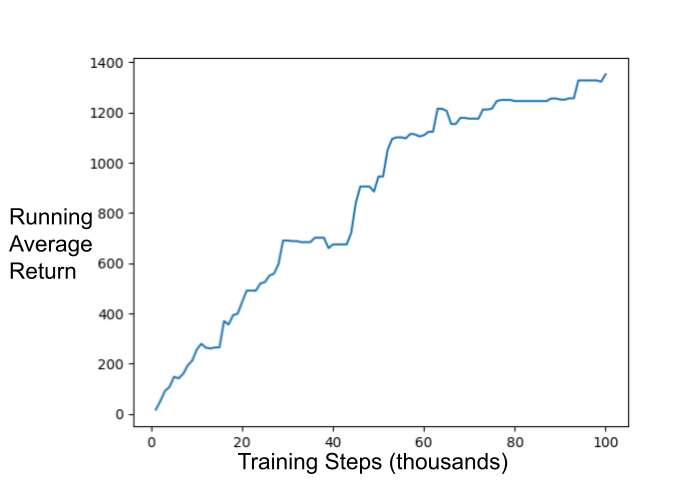
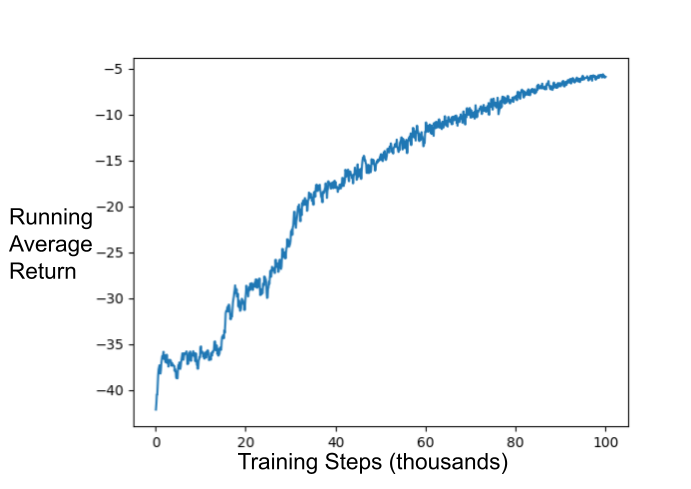
Display results on deterministic ProcMaze instead of previous stochastic environment. Also added target network, and fixed bug where opt_t was not updated.

diff --git a/jax_environments.py b/jax_environments.py
@@ -1,6 +1,6 @@
 import jax as jx
 import jax.numpy as jnp
-from jax import jit
+from jax import jit, vmap
 from functools import partial
 # import operator
 
@@ -90,6 +90,153 @@ class Asterix:
             is_entity = jnp.logical_or(is_enemy[i], is_gold[i])
             obs = obs.at[entity_x[i],i,self.channels['right']].set(jnp.where(is_entity,movement_dir[i],False))
             obs = obs.at[entity_x[i],i,self.channels['left']].set(jnp.where(is_entity,jnp.logical_not(movement_dir[i]),False))
+        return obs
+
+    def num_actions(self):
+        return self._num_actions
+
+class ProcMaze:
+    def __init__(self, grid_size=10, goal_reward=False, timeout=None):
+        self.move_map = jnp.asarray([[0, 0], [-1,0], [0,-1], [1,0], [0,1]])
+        self.timeout = timeout
+
+        self._num_actions = 5
+        self.grid_size = grid_size
+        self.channels ={
+            'player':0,
+            'goal':1,
+            'wall':2,
+            'empty':3
+        }
+
+    @partial(jit, static_argnums=(0,))
+    def step(self, action, env_state):
+        goal, wall_grid, pos, t = env_state
+
+        # Move if the new position is on the grid and open
+        new_pos = jnp.clip(pos+self.move_map[action], 0, self.grid_size-1)
+        pos = jnp.where(jnp.logical_not(wall_grid[new_pos[0], new_pos[1]]), new_pos, pos)
+
+        # Treminated if we reach the goal
+        terminal = jnp.array_equal(pos, goal)
+        if(self.timeout is not None):
+            terminal = jnp.logical_or(terminal, t>=self.timeout)
+
+        reward = -1
+
+        t+=1
+
+        env_state = goal, wall_grid, pos, t
+
+        return env_state, self.get_observation(env_state), reward, terminal, {}
+
+    @partial(jit, static_argnums=(0,))
+    def reset(self, key):
+        def push(stack, top, x):
+            stack= stack.at[top].set(x)
+            top+=1
+            return stack, top
+
+        def pop(stack, top):
+            top-=1
+            return stack[top], top
+
+        #takes and flattened index, returns neighbours as (x,y) pair
+        def neighbours(cell):
+            coord_tuple = jnp.unravel_index(cell, (self.grid_size, self.grid_size))
+            coord_array = jnp.stack(list(coord_tuple))
+            return coord_array+self.move_map
+
+        #takes (x,y) pair
+        def can_expand(cell, visited):
+            # A neighbour can be expanded as long as it is on the grid, it has not been visited, and it's only visited neighbour is the current cell
+            flat_cell = jnp.ravel_multi_index((cell[0],cell[1]),(self.grid_size,self.grid_size),mode='clip')
+            not_visited = jnp.logical_not(visited[flat_cell])
+            ns = neighbours(flat_cell)
+            ns_on_grid = jnp.all(jnp.logical_and(ns>=0,ns<=self.grid_size-1), axis=1)
+            flat_ns = jnp.ravel_multi_index((ns[:,0],ns[:,1]),(self.grid_size,self.grid_size),mode='clip')
+            # Only count neighbours which are actually on the grid
+            only_one_visited_neighbor = jnp.equal(jnp.sum(jnp.logical_and(visited[flat_ns],ns_on_grid)),1)
+            on_grid = jnp.all(jnp.logical_and(cell>=0,cell<=self.grid_size-1))
+            return jnp.logical_and(jnp.logical_and(not_visited,only_one_visited_neighbor),on_grid)
+        can_expand = vmap(can_expand, in_axes=(0,None))
+
+        wall_grid = jnp.ones((self.grid_size, self.grid_size), dtype=bool)
+
+        #Visited node map
+        visited = jnp.zeros(self.grid_size*self.grid_size, dtype=bool)
+
+        #big enough to hold every location in the grid, indices should be flattened to store here
+        stack = jnp.zeros(self.grid_size*self.grid_size, dtype=int)
+        top = 0
+
+        #Location of current cell being searched
+        key, subkey = jx.random.split(key)
+        curr = jx.random.choice(subkey, self.grid_size, (2,))
+        flat_curr = jnp.ravel_multi_index((curr[0],curr[1]),(self.grid_size,self.grid_size),mode='clip')
+        wall_grid = wall_grid.at[curr[0], curr[1]].set(False)
+
+        visited = visited.at[flat_curr].set(True)
+        stack, top = push(stack,top, flat_curr)
+
+        def cond_fun(carry):
+            visited, stack, top, wall_grid, key = carry
+            #continue until stack is empty
+            return top!=0
+
+        def body_fun(carry):
+            visited, stack, top, wall_grid, key = carry
+            curr, top = pop(stack,top)
+            ns = neighbours(curr)
+            flat_ns = jnp.ravel_multi_index((ns[:,0],ns[:,1]),(self.grid_size,self.grid_size),mode='clip')
+
+            expandable = can_expand(ns,visited)
+
+            has_expandable_neighbour = jnp.any(expandable)
+
+            # This will all be used only conditioned on has_expandable neighbor
+            _stack, _top = push(stack, top, curr)
+            key, subkey = jx.random.split(key)
+            selected = jx.random.choice(subkey, flat_ns,p=expandable/jnp.sum(expandable))
+            _stack, _top = push(_stack, _top, selected)
+            _wall_grid = wall_grid.at[jnp.unravel_index(selected, (self.grid_size, self.grid_size))].set(False)
+            _visited = visited.at[selected].set(True)
+
+            stack = jnp.where(has_expandable_neighbour, _stack, stack)
+            top = jnp.where(has_expandable_neighbour, _top, top)
+            wall_grid = jnp.where(has_expandable_neighbour, _wall_grid, wall_grid)
+            visited = jnp.where(has_expandable_neighbour, _visited, visited)
+            return (visited, stack, top, wall_grid, key)
+
+
+
+        key, subkey = jx.random.split(key)
+        carry = (visited, stack, top, wall_grid, subkey)
+        visited, stack, top, wall_grid, key = jx.lax.while_loop(cond_fun, body_fun, carry)
+
+        flat_open = jnp.logical_not(jnp.ravel(wall_grid))
+
+        key, subkey = jx.random.split(key)
+        pos = jx.random.choice(subkey, self.grid_size*self.grid_size, p=flat_open/jnp.sum(flat_open))
+        pos = jnp.stack(list(jnp.unravel_index(pos, (self.grid_size, self.grid_size))))
+        key, subkey = jx.random.split(key)
+        goal = jx.random.choice(subkey, self.grid_size*self.grid_size, p=flat_open/jnp.sum(flat_open))
+        goal = jnp.stack(list(jnp.unravel_index(goal, (self.grid_size, self.grid_size))))
+
+        wall_grid = wall_grid.at[goal[0], goal[1]].set(False)
+        wall_grid = wall_grid.at[pos[0], pos[1]].set(False)
+        t=0
+        env_state = goal, wall_grid, pos, t
+        return env_state
+
+    @partial(jit, static_argnums=(0,))
+    def get_observation(self, env_state):
+        goal, wall_grid, pos, t = env_state
+        obs = jnp.zeros((self.grid_size, self.grid_size, len(self.channels)), dtype=bool)
+        obs = obs.at[pos[0],pos[1],self.channels['player']].set(True)
+        obs = obs.at[goal[0],goal[1],self.channels['goal']].set(True)
+        obs = obs.at[:,:,self.channels['wall']].set(wall_grid)
+        obs = obs.at[:,:,self.channels['empty']].set(jnp.logical_not(wall_grid))
         return obs
 
     def num_actions(self):

diff --git a/basic_tree_search.py b/basic_tree_search.py
@@ -30,12 +30,6 @@ class dotdict(dict):
     __setattr__ = dict.__setitem__
     __delattr__ = dict.__delitem__
 
-key = jx.random.PRNGKey(0)
-
-Environment = getattr(jax_environments, "Asterix")
-
-env = Environment()
-
 activation_dict = {"relu": jx.nn.relu, "silu": jx.nn.silu, "elu": jx.nn.elu}
 
 parser = argparse.ArgumentParser()
@@ -122,6 +116,8 @@ def get_init_fn(env):
         V_params = V_net.init(subkey, dummy_obs)
         V_func = V_net.apply
 
+        V_target_params = V_params
+
         pi_net = hk.without_apply_rng(hk.transform(lambda obs: pi_function(config, num_actions)(obs.astype(float))))
         key, subkey = jx.random.split(key)
         pi_params = pi_net.init(subkey, dummy_obs)
@@ -133,7 +129,7 @@ def get_init_fn(env):
         pi_opt_init, pi_opt_update, get_pi_params = adamw(config.pi_alpha, eps=config.eps_adam, b1=config.b1_adam, b2=config.b2_adam, wd=config.wd_adam)
         pi_opt_state = pi_opt_init(pi_params)
 
-        return env_states, V_func, pi_func, V_opt_state, pi_opt_state, V_opt_update, pi_opt_update, get_V_params, get_pi_params
+        return env_states, V_func, pi_func, V_opt_state, pi_opt_state, V_opt_update, pi_opt_update, get_V_params, V_target_params, get_pi_params
     return init_fn
 
 def get_AC_loss(pi_func, V_func):
@@ -160,7 +156,7 @@ def get_agent_environment_interaction_loop_function(env, V_func, pi_func, recurr
         def loop_function(S, data):
             obs = batch_obs(S["env_states"])
             pi_logits = batch_pi_func(get_pi_params(S["pi_opt_state"]), obs.astype(float))
-            V = batch_V_func(get_V_params(S["V_opt_state"]), obs.astype(float))
+            V = batch_V_func(S["V_target_params"], obs.astype(float))
 
             root = mctx.RootFnOutput(
               prior_logits=pi_logits,
@@ -170,7 +166,7 @@ def get_agent_environment_interaction_loop_function(env, V_func, pi_func, recurr
 
             S["key"], subkey = jx.random.split(S["key"])
             policy_output = mctx.gumbel_muzero_policy(
-              params={"V":get_V_params(S["V_opt_state"]), "pi":get_pi_params(S["pi_opt_state"])},
+              params={"V":S["V_target_params"], "pi":get_pi_params(S["pi_opt_state"])},
               rng_key=subkey,
               root=root,
               recurrent_fn=recurrent_fn,
@@ -178,14 +174,15 @@ def get_agent_environment_interaction_loop_function(env, V_func, pi_func, recurr
               max_num_considered_actions=num_actions,
               qtransform=functools.partial(
                   mctx.qtransform_completed_by_mix_value,
-                  use_mixed_value=config.use_mixed_value
+                  use_mixed_value=config.use_mixed_value,
+                  value_scale=config.value_scale
               ),
             )
 
             # tree search derived targets for policy and value function
             search_policy = policy_output.action_weights
             if(config.value_target=='maxq'):
-                search_value = policy_output.search_tree.qvalues(policy_output.action)
+                search_value = policy_output.search_tree.qvalues(jnp.full(config.batch_size, policy_output.search_tree.ROOT_INDEX))[jnp.arange(config.batch_size), policy_output.action]
             elif(config.value_target=='nodev'):
                 search_value = policy_output.search_tree.node_values[:, policy_output.search_tree.ROOT_INDEX]
             else:
@@ -195,12 +192,15 @@ def get_agent_environment_interaction_loop_function(env, V_func, pi_func, recurr
             pi_grads, V_grads = loss_grad(get_pi_params(S["pi_opt_state"]), get_V_params(S["V_opt_state"]), search_policy, search_value, obs)
             S["pi_opt_state"] = pi_opt_update(S["opt_t"], pi_grads, S["pi_opt_state"])
             S["V_opt_state"] = V_opt_update(S["opt_t"], V_grads, S["V_opt_state"])
+            S["opt_t"]+=1
+
+            # Update target params after a particular number of parameter updates
+            S["V_target_params"] = jx.tree_multimap(lambda x,y: jnp.where(S["opt_t"]%config.target_update_frequency==0,x,y),get_V_params(S["V_opt_state"]), S["V_target_params"])
 
             # always take action recommended by tree search
             actions = policy_output.action
 
-            S["key"], subkey = jx.random.split(S["key"])
-            subkeys = jx.random.split(subkey, num=config.batch_size)
+            # step the environment
             S["env_states"], obs, reward, terminal, _ = batch_step(actions, S["env_states"])
 
             # reset environment if terminated
@@ -232,14 +232,14 @@ env = Environment(**env_config)
 num_actions = env.num_actions()
 
 key, subkey = jx.random.split(key)
-env_states, V_func, pi_func, V_opt_state, pi_opt_state, V_opt_update, pi_opt_update, get_V_params, get_pi_params = get_init_fn(env)(subkey)
+env_states, V_func, pi_func, V_opt_state, pi_opt_state, V_opt_update, pi_opt_update, get_V_params, V_target_params, get_pi_params = get_init_fn(env)(subkey)
 
 recurrent_fn = get_recurrent_fn(env, V_func, pi_func)
 
 agent_environment_interaction_loop_function = jit(get_agent_environment_interaction_loop_function(env, V_func, pi_func, recurrent_fn, V_opt_update, pi_opt_update, get_V_params, get_pi_params, num_actions, config.eval_frequency))
 
 # run_state contains all information to be maintained and updated in agent_environment_interaction_loop
-run_state_names = ["env_states", "V_opt_state", "pi_opt_state", "opt_t", "avg_return", "episode_return", "num_episodes", "key"]
+run_state_names = ["env_states", "V_opt_state", "V_target_params", "pi_opt_state", "opt_t", "avg_return", "episode_return", "num_episodes", "key"]
 var_dict = locals()
 run_state = {name:var_dict[name] for name in run_state_names}
 

diff --git a/README.md b/README.md
@@ -13,5 +13,5 @@ The flags have the following meaning:
 -s specifies the random seed.<br>
 
 ## Preliminary Results
-The following plots display running average return as a function of training steps on a simple Asterix like game which is implemented in jax in the file jax_environments.py. Note that this environment is stochastic, and the planner has access to the random key as part of the environment state which is not very realistic, but serves as a proof of concept. It should be straightforward to apply to other environments written in jax with a similar interface.
+The following plots display running average return as a function of training steps on a small 5x5 procedurally generated Maze environment (implemented as ProcMaze in jax_environments.py). Each time the environment is reset it builds a maze using randomized depth first search. The configuration used for this result is specified in config.json. It should be straightforward to apply to other environments written in jax with a similar interface, though given it uses MCTS with no chance nodes it is not really appropriate for environments with stochastic transitions (randomness in the initial state as in ProcMaze is ok).
 <img align="center" src="img/learning_curve.png" width=800>
